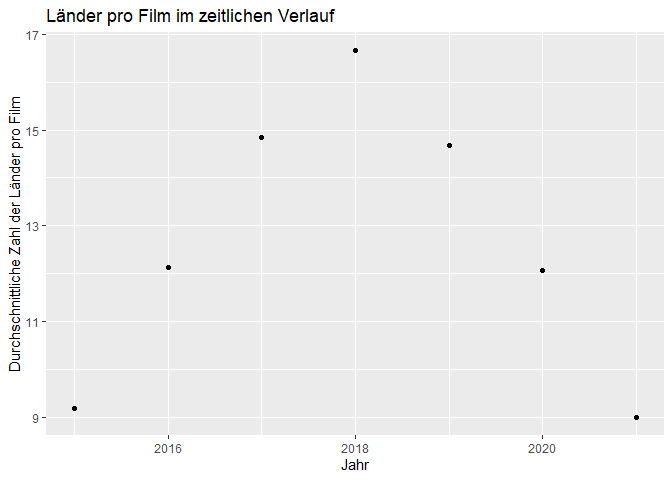
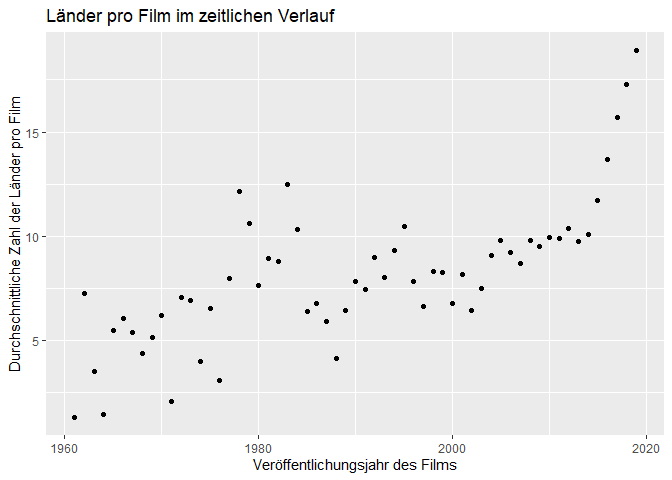
Überarbeitung Internationalität vs Release

diff --git a/Bericht_Henke_Keil_Reichmann.md b/Bericht_Henke_Keil_Reichmann.md
@@ -337,37 +337,6 @@ data%>%
 -   Show/ Filme unterscheiden (in wievielen Sprachen sind diese
     verfügbar?)
 
-**Untersuchung Internationalität vs. Netflix Release**
-
-``` r
-countriesPerFilm <- data %>%
-  separate_rows(`Country Availability`, sep = ",") %>%
-  mutate(releaseYear = as.integer(substr(`Netflix Release Date`, 1, 4))) %>% 
-  select(`Country Availability`, releaseYear, Title) %>% 
-  drop_na() %>%
-  count(Title, releaseYear) %>%
-  group_by(releaseYear) %>% 
-  summarise(number = mean(n))
-  
-  totalFilmsPerYear <- data %>%
-  mutate(releaseYear = as.integer(substr(`Netflix Release Date`, 1, 4))) %>% 
-  select(releaseYear, Title) %>% 
-  drop_na() %>%
-  count(Title, releaseYear) %>%
-    group_by(releaseYear) %>%
-    summarise(n=sum(n))
-  
-  #NOCH UNFERTIG
-  
-  ggplot(data=countriesPerFilm, aes(x = releaseYear, y = number)) +
-  geom_point() +
-  labs(title = "Länder pro Film im zeitlichen Verlauf",
-       y = "Durchschnittliche Zahl der Länder pro Film",
-       x = "Jahr")
-```
-
-![](Bericht_Henke_Keil_Reichmann_files/figure-gfm/unnamed-chunk-6-1.png)<!-- -->
-
 evtl. wiederverwertbare Codeschnipsel
 
 ## Genre vs. Year
@@ -393,7 +362,7 @@ left_join(year_per_genre, year_genre_total, by = "year") %>%
   ggplot(aes(x = year, y = prop, color = Genre)) + geom_point()
 ```
 
-![](Bericht_Henke_Keil_Reichmann_files/figure-gfm/unnamed-chunk-8-1.png)<!-- -->
+![](Bericht_Henke_Keil_Reichmann_files/figure-gfm/unnamed-chunk-7-1.png)<!-- -->
 
 Trotz (nzw. sogar wegen) des Overplotting sehen wir klar: Mit
 zunehmender Jahreszahl gibt es mehr Genres und die einzelnen Genres
@@ -421,7 +390,7 @@ temp %>%
 #summary(lm)
 ```
 
-![](Bericht_Henke_Keil_Reichmann_files/figure-gfm/unnamed-chunk-9-1.png)<!-- -->
+![](Bericht_Henke_Keil_Reichmann_files/figure-gfm/unnamed-chunk-8-1.png)<!-- -->
 
 Allerdings wird in unserem Datensatz ein Film i.d.R. mehreren Genres
 zugeordnet. Liegt der Zusammenhang also eventuell daran, dass neuere
@@ -446,7 +415,7 @@ data %>%
        x = "Jahr")
 ```
 
-![](Bericht_Henke_Keil_Reichmann_files/figure-gfm/unnamed-chunk-10-1.png)<!-- -->
+![](Bericht_Henke_Keil_Reichmann_files/figure-gfm/unnamed-chunk-9-1.png)<!-- -->
 
 Anhand des Plots lässt sich diese Vermutung widerlegen, denn die Zahl
 der Genres ist fast immer zwischen 2.5 und .5, lediglich vor 1980 sieht
@@ -463,6 +432,101 @@ einzubeziehen ist natürlich auch möglich.
 
 Als überspannende Fragestellung ergibt sich hieraus zum Beispiel: Bietet
 Netflix mit neuen Filmen mehr Abwechslung?
+
+**Untersuchung Internationalität vs. Veröffentlichungsjahr**
+
+*Ebenfalls spannend, evtl. als erweiterung zu Simons Idee (\~Daniel)*
+
+Netflix wird immer internationaler und hat mehr und mehr
+Eigenproduktionen. Führt das auf lange Sicht auf ein einheitlicheres
+Netflix, das weniger regionale Unterschiede hat? Sind die neusten
+Veröffentlichungen auf Netflix in mehr Ländern verfügbar?
+
+Zunächst schauen wir uns die Film basierend auf ihr ursprüngliches
+Veröffentlichungsjahr an, wobei wir ähnlich wie oben nur Filme zwischen
+1960 und 2021 betrachten. Hier sehen wir eine interessante Kurve,
+insbesondere wenn wir die in R eingebaute, automatische Glättungskurve
+einbauen.
+
+``` r
+countriesPerYear <- data %>%
+  separate_rows(`Country Availability`, sep = ",") %>%
+  mutate(year = as.integer(substr(`Release Date`, 8, 12))) %>%  
+  select(`Country Availability`, year, Title) %>% 
+  drop_na() %>%
+  filter(year > 1959 & year < 2021) %>% 
+  count(Title, year) %>%
+  group_by(year) %>% 
+  summarise(number = mean(n)) 
+
+
+
+countriesPerYear%>%
+  ggplot(aes(x = year, y = number)) +
+  geom_point() +
+  labs(title = "Länder pro Film im zeitlichen Verlauf",
+       y = "Durchschnittliche Zahl der Länder pro Film",
+       x = "Veröffentlichungsjahr des Films")
+
+countriesPerYear%>%
+  ggplot(aes(x = year, y = number)) +
+  geom_point() +
+  geom_smooth()+
+  labs(title = "Länder pro Film im zeitlichen Verlauf",
+       y = "Durchschnittliche Zahl der Länder pro Film",
+       x = "Veröffentlichungsjahr des Films")
+```
+
+![](Bericht_Henke_Keil_Reichmann_files/figure-gfm/unnamed-chunk-10-1.png)![](Bericht_Henke_Keil_Reichmann_files/figure-gfm/unnamed-chunk-10-2.png)
+
+Interessanterweise sieht man diesen Trend nicht so deutlich, wenn man
+das Veröffentlichungsjahr auf Netflix betrachtet, da die Zahlen seit
+2018 rückläufig sind.
+
+``` r
+data %>%
+  separate_rows(`Country Availability`, sep = ",") %>%
+  mutate(releaseYear = as.integer(substr(`Netflix Release Date`, 1, 4))) %>% 
+  select(`Country Availability`, releaseYear, Title) %>% 
+  drop_na() %>%
+  filter(releaseYear > 1959 & releaseYear < 2021) %>%
+  count(Title, releaseYear) %>%
+  group_by(releaseYear) %>% 
+  summarise(number = mean(n)) %>%
+  ggplot(aes(x = releaseYear, y = number)) +
+  geom_col() +
+  labs(title = "Länder pro Film im zeitlichen Verlauf",
+       y = "Durchschnittliche Zahl der Länder pro Film",
+       x = "Veröffentlichungsjahr auf Netflix")
+```
+
+![](Bericht_Henke_Keil_Reichmann_files/figure-gfm/unnamed-chunk-11-1.png)<!-- -->
+
+Dieser Trend ist überraschend, vor allem im Vergleich zu den
+Veröffentlichungszahlen von Filmen auf Netflix
+
+``` r
+  data %>%
+  mutate(releaseYear = as.integer(substr(`Netflix Release Date`, 1, 4))) %>% 
+  select(releaseYear, Title) %>% 
+  drop_na() %>% 
+  filter(releaseYear > 1959 & releaseYear < 2021) %>%
+  ggplot(mapping = aes(x = releaseYear)) +
+  geom_bar() +
+  labs(title = "Veröffentlichungszahlen pro Jahr auf Netflix",
+       y = "Anzahl",
+       x = "Veröffentlichungsjahr auf Netflix")
+```
+
+![](Bericht_Henke_Keil_Reichmann_files/figure-gfm/unnamed-chunk-12-1.png)<!-- -->
+
+Das lässt darauf schließen: neue Werke sind auf Netflix internationaler
+erhältlich als alte Werke, das Veröffentlichungsdatum auf Netflix spielt
+höchstwahrscheinlich keine große Rolle.
+
+=> Ideen zu betrachten: Erwartungswert Verfügbarkeit, Korrelationen
+zwischen Verfügbarkeit, Netflix Release und ursprünglicher Release,
+Modell zum Verlauf entwickeln…
 
 ## Literatur
 
